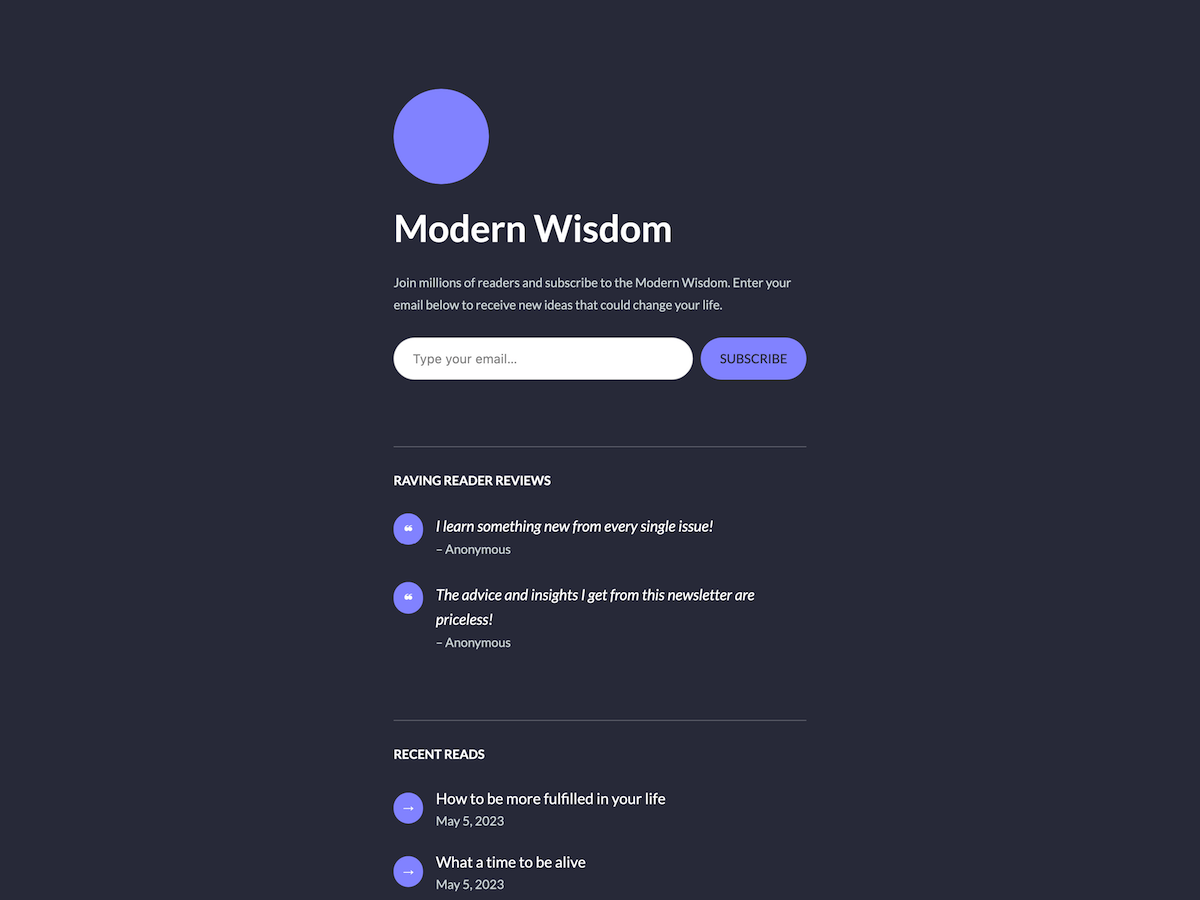
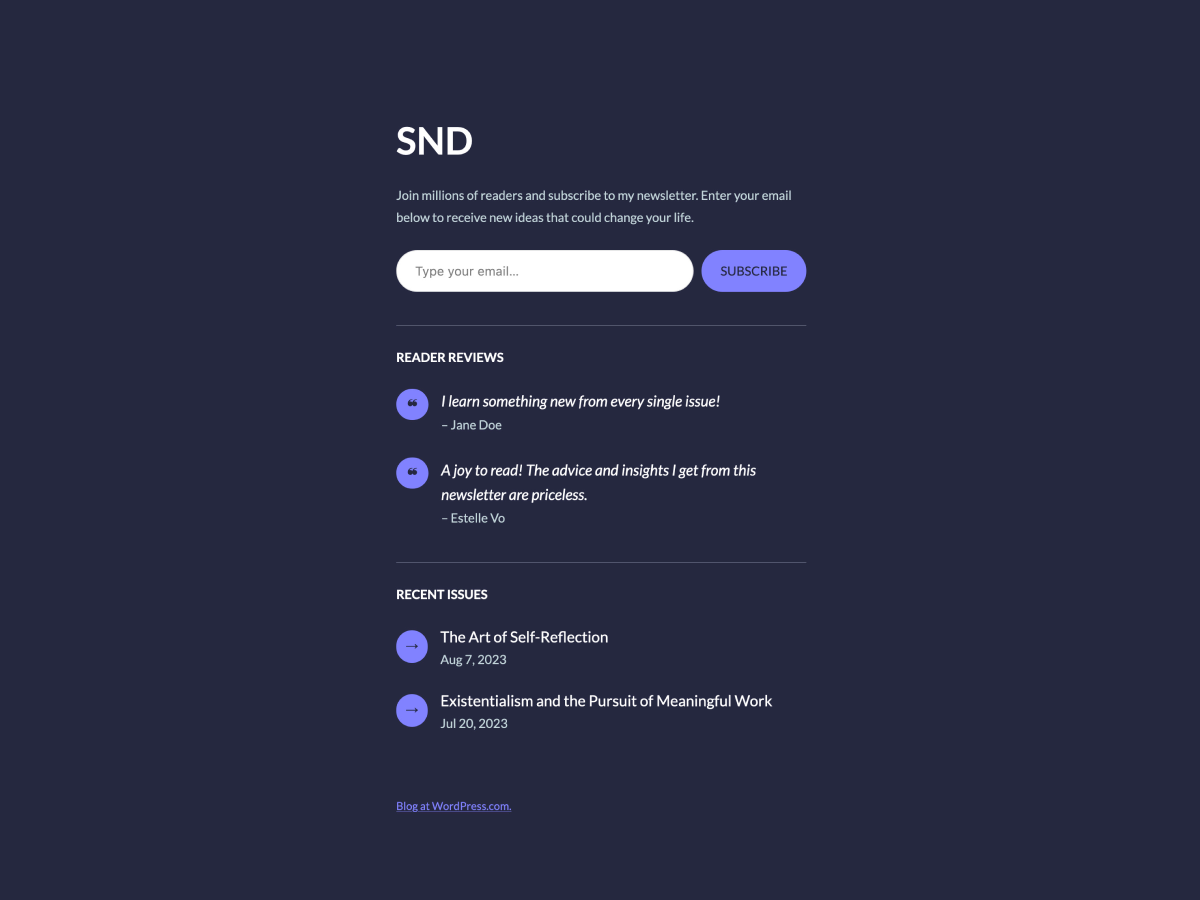
SND: Minor pre-launch fixes (#7291)
* Update header-front.php

Add top margin.

* Update copy.

Update copy in subscribe and home patterns to something more generic.

* Update theme screenshot

* Update screenshot.png

Changed region(s): [[0.3083, 0.0933, 0.6783, 0.7467], [0.3083, 0.7778, 0.6475, 0.9956]]

diff --git a/snd/patterns/home.php b/snd/patterns/home.php
@@ -10,7 +10,7 @@
 
 <!-- wp:group {"style":{"spacing":{"margin":{"bottom":"var:preset|spacing|80"}}},"layout":{"type":"constrained"}} -->
 <div class="wp-block-group" style="margin-bottom:var(--wp--preset--spacing--80)"><!-- wp:paragraph -->
-<p><?php echo esc_html__( 'Join millions of readers and subscribe to the Modern Wisdom. Enter your email below to receive new ideas that could change your life.', 'snd' ); ?></p>
+<p><?php echo esc_html__( 'Join millions of readers and subscribe to my newsletter. Enter your email below to receive new ideas that could change your life.', 'snd' ); ?></p>
 <!-- /wp:paragraph -->
 
 <!-- wp:jetpack/subscriptions {"submitButtonText":"SUBSCRIBE","borderRadius":50} /-->

diff --git a/snd/patterns/header-front.php b/snd/patterns/header-front.php
@@ -6,10 +6,9 @@
  * Block Types: core/template-part/header
  */
 ?>
-<!-- wp:group {"layout":{"type":"constrained"}} -->
-<div class="wp-block-group">
+<!-- wp:group {"style":{"spacing":{"margin":{"top":"var:preset|spacing|80"}}},"layout":{"type":"constrained"}} -->
+<div class="wp-block-group" style="margin-top:var(--wp--preset--spacing--80)">
 	<!-- wp:site-logo {"width":140,"shouldSyncIcon":false,"className":"is-style-rounded"} /-->
 	<!-- wp:site-title {"fontSize":"xxx-large"} /-->
 </div>
 <!-- /wp:group -->
-

diff --git a/snd/patterns/subscribe.php b/snd/patterns/subscribe.php
@@ -14,7 +14,7 @@
 <!-- /wp:separator -->
 
 <!-- wp:heading {"level":3,"fontSize":"medium"} -->
-<h3 class="wp-block-heading has-medium-font-size"><?php echo esc_html__( 'Subscribe to Modern Wisdom', 'montagna' ); ?></h3>
+<h3 class="wp-block-heading has-medium-font-size"><?php echo esc_html__( 'Subscribe to my newsletter', 'snd' ); ?></h3>
 <!-- /wp:heading -->
 
 <!-- wp:jetpack/subscriptions {"submitButtonText":"SUBSCRIBE","borderRadius":50} /--></div>
